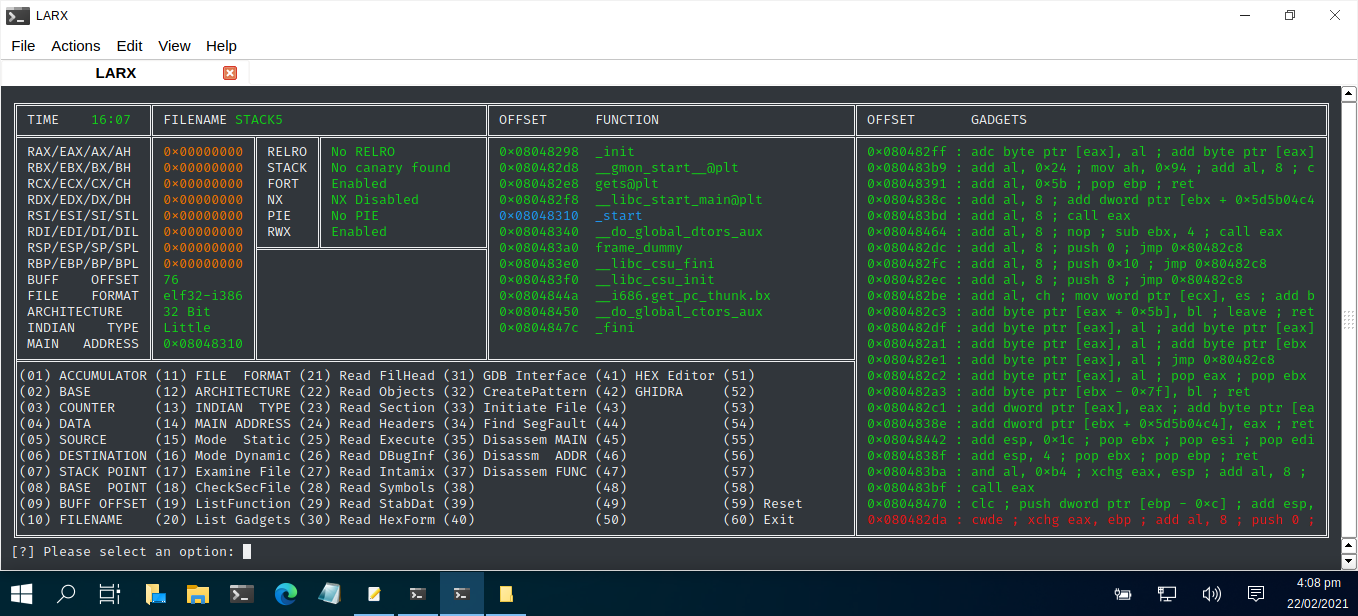
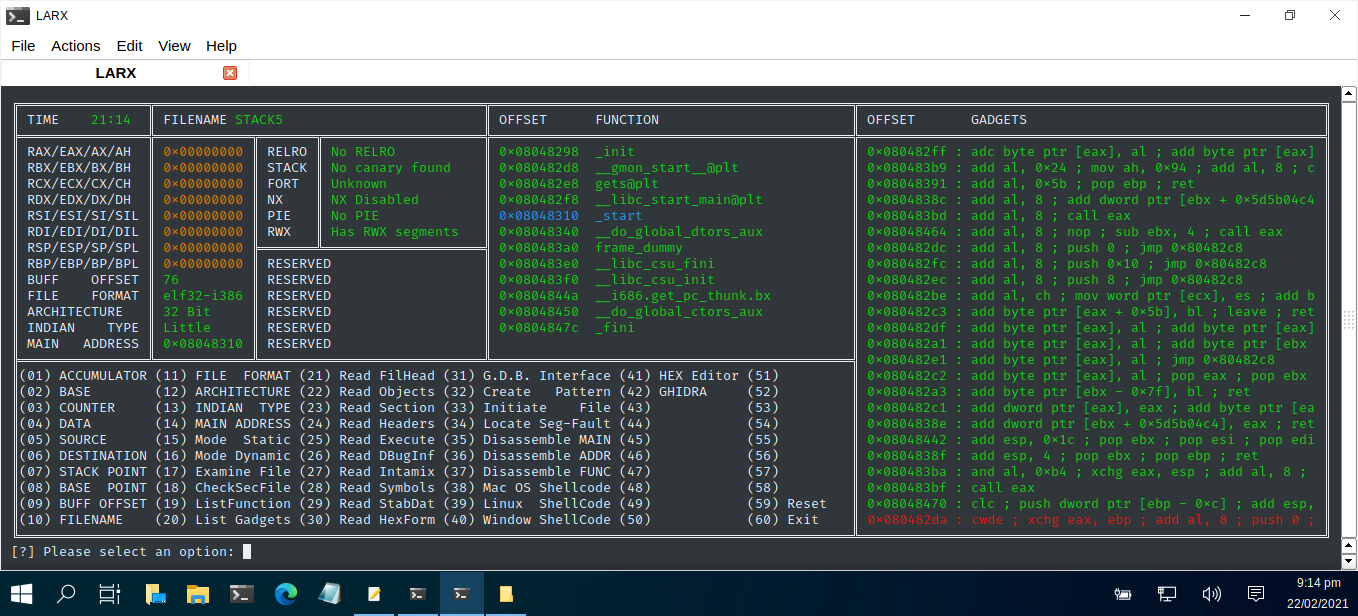
LARX

diff --git a/larx.py b/larx.py
@@ -303,7 +303,7 @@ def dispMenu():
    else:
       print(colored(RBP[:COL1],colour6), end=' ')
    print('\u2551', end=' ')  
-   print(' '*27 + '\u2551', end=' ')						# 
+   print("RESERVED  " + ' '*17 + '\u2551', end=' ')						# 
    if SRT.rstrip(" ") in ADDR[7]:
       print(colored(ADDR[7],colour3), end=' ')
    else:
@@ -318,7 +318,7 @@ def dispMenu():
    else:
       print(colored(OFF[:COL1],colour6), end=' ')
    print('\u2551', end=' ')  
-   print(' '*27 + '\u2551', end=' ')						# 
+   print("RESERVED  " + ' '*17 + '\u2551', end=' ')						# 
    if SRT.rstrip(" ") in ADDR[8]:
       print(colored(ADDR[8],colour3), end=' ')
    else:
@@ -333,7 +333,7 @@ def dispMenu():
    else:
       print(colored(COM,colour6), end=' ')
    print('\u2551', end=' ')  
-   print(' '*27 + '\u2551', end=' ')						#    
+   print("RESERVED  " + ' '*17 + '\u2551', end=' ')						# 
    if SRT.rstrip(" ") in ADDR[9]:
       print(colored(ADDR[9],colour3), end=' ')
    else:
@@ -348,7 +348,7 @@ def dispMenu():
    else:
       print(colored(ARC[:COL1],colour6), end=' ')
    print('\u2551', end=' ')  
-   print(' '*27 + '\u2551', end=' ')						# 
+   print("RESERVED  " + ' '*17 + '\u2551', end=' ')						# 
    if SRT.rstrip(" ") in ADDR[10]:
       print(colored(ADDR[10],colour3), end=' ')
    else:
@@ -363,7 +363,7 @@ def dispMenu():
    else:
       print(colored(IND,colour6), end=' ')
    print('\u2551', end=' ')   
-   print(' '*27 + '\u2551', end=' ')						#   
+   print("RESERVED  " + ' '*17 + '\u2551', end=' ')						# 
    if SRT.rstrip(" ") in ADDR[11]:
       print(colored(ADDR[11],colour3), end=' ')
    else:
@@ -378,7 +378,7 @@ def dispMenu():
    else:
       print(colored(SRT[:COL1],colour6), end=' ')
    print('\u2551', end=' ')   
-   print(' '*27 + '\u2551', end=' ')						#
+   print("RESERVED  " + ' '*17 + '\u2551', end=' ')						# 
    if SRT.rstrip(" ") in ADDR[12]:
       print(colored(ADDR[12],colour3), end=' ')
    else:
@@ -393,16 +393,16 @@ def dispMenu():
    return
    
 def options():
-   print('\u2551' + "(01) ACCUMULATOR (11) FILE  FORMAT (21) Read FilHead (31) GDB Interface (41) HEX Editor (51)            " + '\u2551', end=' '); print(colored(GADD[14],colour6), end=' '); print('\u2551')
-   print('\u2551' + "(02) BASE        (12) ARCHITECTURE (22) Read Objects (32) CreatePattern (42) GHIDRA     (52)            " + '\u2551', end=' '); print(colored(GADD[15],colour6), end=' '); print('\u2551')
-   print('\u2551' + "(03) COUNTER     (13) INDIAN  TYPE (23) Read Section (33) Initiate File (43)            (53)            " + '\u2551', end=' '); print(colored(GADD[16],colour6), end=' '); print('\u2551')  
-   print('\u2551' + "(04) DATA        (14) MAIN ADDRESS (24) Read Headers (34) Find SegFault (44)            (54)            " + '\u2551', end=' '); print(colored(GADD[17],colour6), end=' '); print('\u2551')
-   print('\u2551' + "(05) SOURCE      (15) Mode  Static (25) Read Execute (35) Disassem MAIN (45)            (55)            " + '\u2551', end=' '); print(colored(GADD[18],colour6), end=' '); print('\u2551')
-   print('\u2551' + "(06) DESTINATION (16) Mode Dynamic (26) Read DBugInf (36) Disassm  ADDR (46)            (56)            " + '\u2551', end=' '); print(colored(GADD[19],colour6), end=' '); print('\u2551')
-   print('\u2551' + "(07) STACK POINT (17) Examine File (27) Read Intamix (37) Disassem FUNC (47)            (57)            " + '\u2551', end=' '); print(colored(GADD[20],colour6), end=' '); print('\u2551')
-   print('\u2551' + "(08) BASE  POINT (18) CheckSecFile (28) Read Symbols (38)               (48)            (58)            " + '\u2551', end=' '); print(colored(GADD[21],colour6), end=' '); print('\u2551')
-   print('\u2551' + "(09) BUFF OFFSET (19) ListFunction (29) Read StabDat (39)               (49)            (59) Reset      " + '\u2551', end=' '); print(colored(GADD[22],colour6), end=' '); print('\u2551')
-   print('\u2551' + "(10) FILENAME    (20) List Gadgets (30) Read HexForm (40)               (50)            (60) Exit       " + '\u2551', end=' ')
+   print('\u2551' + "(01) ACCUMULATOR (11) FILE  FORMAT (21) Read FilHead (31) G.D.B. Interface (41) HEX Editor (51)         " + '\u2551', end=' '); print(colored(GADD[14],colour6), end=' '); print('\u2551')
+   print('\u2551' + "(02) BASE        (12) ARCHITECTURE (22) Read Objects (32) Create   Pattern (42) GHIDRA     (52)         " + '\u2551', end=' '); print(colored(GADD[15],colour6), end=' '); print('\u2551')
+   print('\u2551' + "(03) COUNTER     (13) INDIAN  TYPE (23) Read Section (33) Initiate    File (43)            (53)         " + '\u2551', end=' '); print(colored(GADD[16],colour6), end=' '); print('\u2551')  
+   print('\u2551' + "(04) DATA        (14) MAIN ADDRESS (24) Read Headers (34) Locate Seg-Fault (44)            (54)         " + '\u2551', end=' '); print(colored(GADD[17],colour6), end=' '); print('\u2551')
+   print('\u2551' + "(05) SOURCE      (15) Mode  Static (25) Read Execute (35) Disassemble MAIN (45)            (55)         " + '\u2551', end=' '); print(colored(GADD[18],colour6), end=' '); print('\u2551')
+   print('\u2551' + "(06) DESTINATION (16) Mode Dynamic (26) Read DBugInf (36) Disassemble ADDR (46)            (56)         " + '\u2551', end=' '); print(colored(GADD[19],colour6), end=' '); print('\u2551')
+   print('\u2551' + "(07) STACK POINT (17) Examine File (27) Read Intamix (37) Disassemble FUNC (47)            (57)         " + '\u2551', end=' '); print(colored(GADD[20],colour6), end=' '); print('\u2551')
+   print('\u2551' + "(08) BASE  POINT (18) CheckSecFile (28) Read Symbols (38) Mac OS Shellcode (48)            (58)         " + '\u2551', end=' '); print(colored(GADD[21],colour6), end=' '); print('\u2551')
+   print('\u2551' + "(09) BUFF OFFSET (19) ListFunction (29) Read StabDat (39) Linux  ShellCode (49)            (59) Reset   " + '\u2551', end=' '); print(colored(GADD[22],colour6), end=' '); print('\u2551')
+   print('\u2551' + "(10) FILENAME    (20) List Gadgets (30) Read HexForm (40) Window ShellCode (50)            (60) Exit    " + '\u2551', end=' ')
    if GADD[24] != "":
       print(colored(GADD[23],colour0), end=' '); print('\u2551')   
    else:
@@ -1009,19 +1009,21 @@ while True:
          print("If PIE is enabled, then the programs memory locations will not stay the same...")
          print("If RWX has segments, then these are writeable and executable at the same time...")
                   
-         RE = " Enabled            "
+         RE = " Partial RELRO      "	# ENABLE ALL
          ST = " Enabled            "
-         FO = " Enabled            "
-         NX = " Enabled            "
+         FO = " Unknown            "
+         NX = " NX enabled         "
          PI = " Enabled            "
-         RW = " Enabled            "
+         RW = " Has RWX segments   "
          
          count = lineCount("checksec.tmp")         
          for x in range(0, count):
             binary = linecache.getline("checksec.tmp", x)
 
-            if "No RELRO" in binary:
-               RE = " No RELRO           "               
+            if "No RELRO" in binary:		# DISABLE SPECIFIC
+               RE = " No RELRO           "
+            if "Partial RELRO" in binary:
+               RE = " Partial RELRO      "               
             if "No canary found" in binary:
                ST = " No canary found    "
             if "No Fortify" in binary:
@@ -1048,7 +1050,7 @@ while True:
          print("[-] Filename not specified...")
       else:         
          print(colored("[*] Examining filename " + powrDir + "/" + FIL.rstrip(" ") + "...", colour3))
-         command("gdb -batch -ex 'file " + powrDir + "/" + FIL.rstrip(" ") + "' -ex 'info functions' > gadgets.tmp")
+         command("gdb -q -batch -ex 'file " + powrDir + "/" + FIL.rstrip(" ") + "' -ex 'info functions' > gadgets.tmp")
          parsFile("gadgets.tmp")
          catsFile("gadgets.tmp")
          command("sed -i '/0x/!d' ./gadgets.tmp")
@@ -1263,7 +1265,7 @@ while True:
 # AUTHOR  : Terence Broadbent                                                    
 # CONTRACT: GitHub
 # Version : LARX                                                            
-# Details : Menu option selected - gdb fileName
+# Details : Menu option selected - gdb -q fileName
 # Modified: N/A
 # -------------------------------------------------------------------------------------
 
@@ -1272,7 +1274,7 @@ while True:
          print("[-] Filename not specified...")
       else:
          print(colored("[*] Editing filename " + powrDir + "/" + FIL.rstrip(" ") + "...", colour3))
-         command("gdb " + powrDir + "/" + FIL.rstrip(" "))
+         command("gdb -q " + powrDir + "/" + FIL.rstrip(" "))
       prompt()
       
 # ------------------------------------------------------------------------------------- 
@@ -1340,7 +1342,8 @@ while True:
       command("echo 'break main' > command.tmp")
       command("echo 'run' >> command.tmp")
       command("echo 'disassemble' >> command.tmp")
-      command("gdb " + powrDir + "/" + FIL.rstrip(" ") +" -x command.tmp")
+      command("echo 'quit' >> command.tmp")
+      command("gdb -q " + powrDir + "/" + FIL.rstrip(" ") +" -x command.tmp")
       prompt()
       
 # ------------------------------------------------------------------------------------- 
@@ -1356,7 +1359,8 @@ while True:
       command("echo 'break main' > command.tmp")
       command("echo 'run' >> command.tmp")
       command("echo 'disassemble " + address.rstrip(" ") + "' >> command.tmp")
-      command("gdb " + powrDir + "/" + FIL.rstrip(" ") +" -x command.tmp")
+      command("echo 'quit' >> command.tmp")      
+      command("gdb -q " + powrDir + "/" + FIL.rstrip(" ") +" -x command.tmp")
       prompt()
 
 # ------------------------------------------------------------------------------------- 
@@ -1372,8 +1376,24 @@ while True:
       command("echo 'break main' > command.tmp")
       command("echo 'run' >> command.tmp")
       command("echo 'disassemble /m " + function.rstrip(" ") + "' >> command.tmp")
-      command("gdb " + powrDir + "/" + FIL.rstrip(" ") +" -x command.tmp")
+      command("echo 'quit' >> command.tmp")
+      command("gdb -q " + powrDir + "/" + FIL.rstrip(" ") +" -x command.tmp")
       prompt()
+      
+# ------------------------------------------------------------------------------------- 
+# AUTHOR  : Terence Broadbent                                                    
+# CONTRACT: GitHub
+# Version : LARX                                                            
+# Details : Menu option selected - Shell code for linux
+# Modified: N/A
+# -------------------------------------------------------------------------------------
+
+   if selection == '39':   
+      print(colored("[*] Generic shellcode...", colour3))
+      command("msfvenom -p linux/x86/exec CMD=/bin/sh -f py")
+      print("")
+      command("msfvenom -p linux/x64/exec CMD=/bin/sh -f py")
+      prompt()  
       
 # ------------------------------------------------------------------------------------- 
 # AUTHOR  : Terence Broadbent                                                    
@@ -1405,7 +1425,7 @@ while True:
       else:
          print(colored("[*] Ghidra has been initiated...", colour3))          
          command("/opt/ghidra_9.2.2_PUBLIC/ghidraRun ./analyzeHeadless ./" + powrDir + " -import " + powrDir + "/" + FIL.rstrip(" ") + " > boot.tmp 2>&1")
-      prompt() 
+      prompt()    
       
 # ------------------------------------------------------------------------------------- 
 # AUTHOR  : Terence Broadbent                                                    

diff --git a/README.md b/README.md
@@ -29,7 +29,7 @@ A comprehensive, yet sleek and portable python script file that enables cyber se
 |------     |-------         | -------                          | ----                |  ----        |
 | python3   | install.py     | 009d381735ec64b091e1df8e59678769 | Install Program     | TREADSTONE   |
 | python3   | rogue-agent.py | 8b0ccac380408a3cb63eb366b619c3d5 | Command Centre      | TREADSTONE   |
-| python3   | larx.py        | fd7d44a105d5714f34ea8ef09ac15e33 | Binary Exploitation | LARX | 
+| python3   | larx.py        | 4488fe0450875c3bf9c102bef7996a8b | Binary Exploitation | LARX | 
 | SQLite3   | RA.db          | eee835aed6a28c2c263cd6476ce0724a | Program Database    | TREADSTONE   |
 
        
